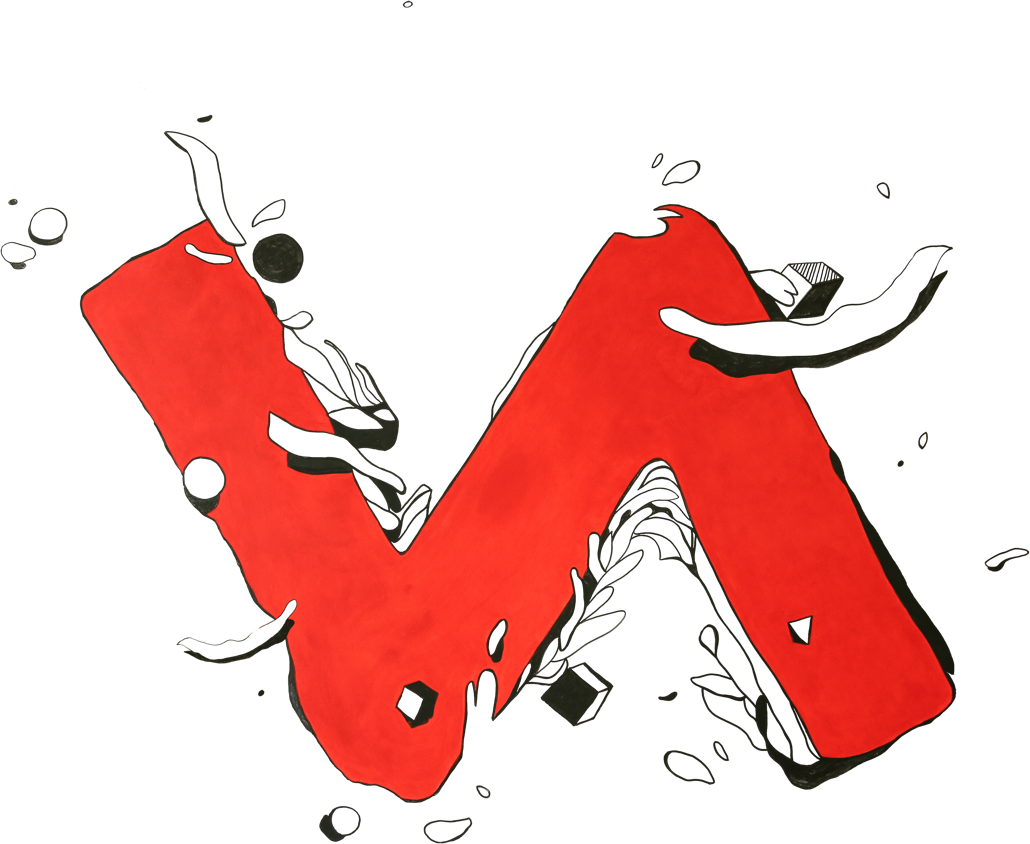
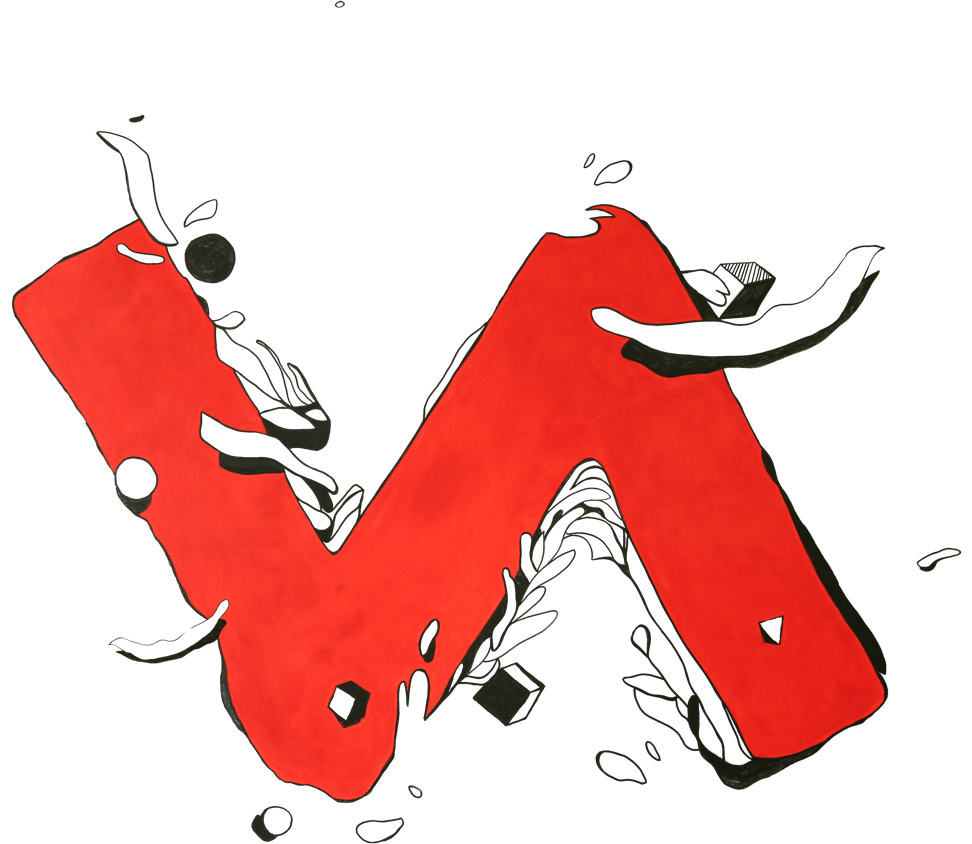
little bit of animation

diff --git a/css/style.css b/css/style.css
@@ -342,8 +342,16 @@ footer {
 
 
 #scrunchGraphic {
-    margin-top: 115px;
-    margin-left: 60px;
+    margin-top: 125px;
+    margin-left: 90px;
+}
+
+#scrunchGraphicGif {
+    float: right;
+    width: 530px;
+    height: auto;
+    margin-top: -420px;
+    margin-right: 50px;
 }
 
 #sunbrellaImageOne {
@@ -685,12 +693,21 @@ footer {
 
     #scrunchGraphic{
         width: 310px;
-        height: 250px;
+        height: auto;
         margin-top: 140px;
         margin-left: 0px;
         padding-left: 0px;
         float: right;
-        padding-right: 50px;
+        padding-right: 30px;
+    }
+
+
+    #scrunchGraphicGif {
+        float: right;
+        width: 320px;
+        height: auto;
+        margin-top: -270px;
+        margin-right: 55px;
     }
 
     #sunbrellaImageOne {
@@ -868,9 +885,18 @@ footer {
 
     #scrunchGraphic {
         margin-top: 0px;
-        margin-left: 50px;
+        margin-left: 0px;
         height: auto;
         padding: 30px;
+        float: none;
+    }
+
+    #scrunchGraphicGif {
+        float: right;
+        width: 320px;
+        height: auto;
+        margin-top: -280px;
+        margin-right: 45px;
     }
 
 

diff --git a/index.html b/index.html
@@ -52,6 +52,7 @@
 				</div>
 				<div class="rightImages">
 					<img id="scrunchGraphic" src="images/ScrunchGraphic.png" alt="logo" height="450">
+					<img id="scrunchGraphicGif" src="images/justmovingbits.gif" alt="gif" height="450">
 				</div>
 			</div>
 		</div> 
